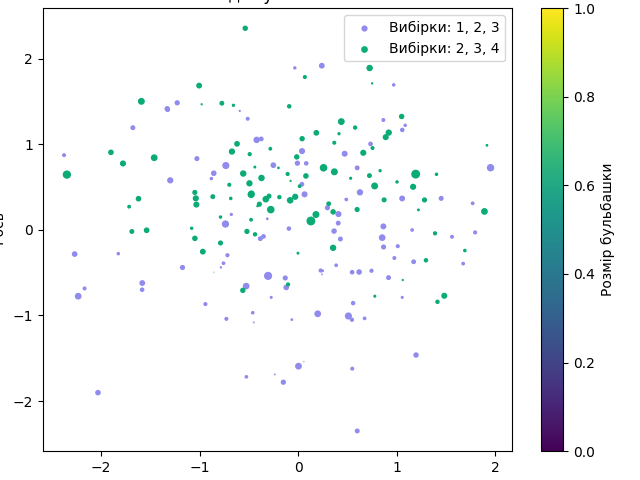
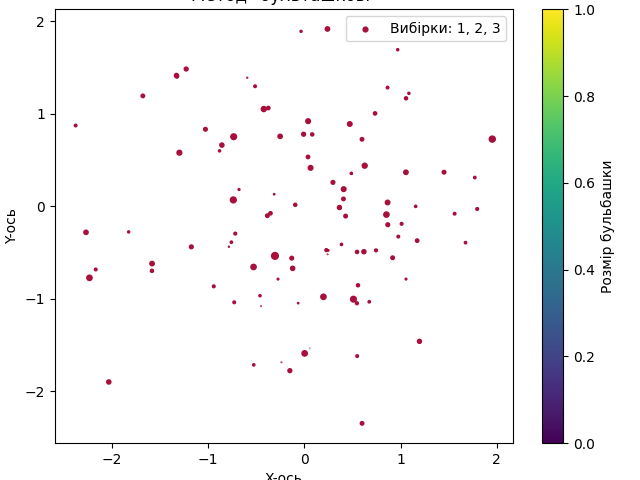
standardization

diff --git a/main.py b/main.py
@@ -5,12 +5,13 @@ import numpy as np
 from tkinter import filedialog as fd
 from PIL import Image, ImageTk
 
-from первинний_аналіз import create_new_window_for_x, calcul_mean_square
+from первинний_аналіз import create_new_window_for_x, calcul_mean_square, standr
 from візуалізація import parallel_coordinat, scatter_plots, bubble_chart
 from кореляція import correlation_matrix, partial, plural
 
 sample_data = {}
 sample_data1 = {}
+sample_data2 = {}
 selected_samples = []
 selected_samples2 = []  # для частові коофіцієнти кореляції
 checkbuttons = []
@@ -38,15 +39,27 @@ def print_selected_options():
         text_widget1.insert(END, "Не обрано жодного варіанту.")
 
 
-def deselect_previous():
-    for sample_name, sample_info in sample_data1.items():
+def deselect_previous(sample_dat):
+    for sample_name, sample_info in sample_dat.items():
         sample_info["var"].set(0)
 
 
 def select_sample(sample_name):
-    deselect_previous()
+    deselect_previous(sample_data1)
     sample_data1[sample_name]["var"].set(1)
     create_new_window_for_x(sample_data1)
+
+
+def select_standart(sample_name):
+    sample_data2[sample_name]["var"].set(1)
+
+    for sample_name, sample_info in sample_data2.items():
+        if sample_info["var"].get() == 1:
+            print(sample_info["data"])
+            standart = standr(sample_info["data"])
+            sample_data2[sample_name] = {'data': standart, "var": tkinter.IntVar()}
+            print(sample_data2[sample_name])
+    # deselect_previous(sample_data2)
 
 
 def open_file():
@@ -64,11 +77,14 @@ def open_file():
     sample_name = f"Вибірка {sample_num}"
     sample_var = tkinter.IntVar()
     sample_var1 = tkinter.IntVar()
+    sample_var2 = tkinter.IntVar()
     sample_data[sample_name] = {"data": array, "var": sample_var}
     sample_data1[sample_name] = {"data": array, "var": sample_var1}
+    sample_data2[sample_name] = {"data": array, "var": sample_var2}
 
     sample_menu1.add_checkbutton(label=sample_name, variable=sample_var)
     sample_menu.add_checkbutton(label=sample_name, variable=sample_var1, command=lambda: select_sample(sample_name))
+    sample_menu2.add_checkbutton(label=sample_name, variable=sample_var2, command=lambda: select_standart(sample_name))
 
 
 class ImageTab(ttk.Frame):
@@ -185,6 +201,21 @@ file_menu2 = Menu(menubar, tearoff=0)
 menubar.add_cascade(label="Первинний аналіз", menu=file_menu2)
 sample_menu = Menu(menubar, tearoff=0)
 file_menu2.add_cascade(label="Вибірки", menu=sample_menu)
+
+file_menu3 = Menu(menubar, tearoff=0)
+menubar.add_cascade(label="Візуалізація", menu=file_menu3)
+# sample_menu2 = Menu(menubar, tearoff=0)
+file_menu3.add_command(label="Бульбашкова", command=lambda: bubble_chart(selected_samples, 1))
+file_menu3.add_command(label="Матриця діаграм розкиду", command=lambda: scatter_plots(selected_samples, 1))
+file_menu3.add_command(label="Паралельні координати", command=lambda: parallel_coordinat(selected_samples, 1))
+
+
+file_menu4 = Menu(menubar, tearoff=0)
+menubar.add_cascade(label="Стандартизація", menu=file_menu4)
+file_menu4.add_separator()
+sample_menu2 = Menu(menubar, tearoff=0)
+file_menu4.add_cascade(label="Вибірки", menu=sample_menu2)
+
 
 window.config(menu=menubar)
 

diff --git a/візуалізація.py b/візуалізація.py
@@ -5,10 +5,10 @@ import pandas as pd
 import seaborn as sns
 
 
-def parallel_coordinat(data):
+def parallel_coordinat(data, show=None):
     plt.clf()
 
-    df = pd.DataFrame(columns=[f'Feature{i+1}' for i in range(len(data))] + ['Category'])
+    df1 = pd.DataFrame(columns=[f'Feature{i+1}' for i in range(len(data))] + ['Category'])
 
     transposed_data = list(zip(*[sample[1] for sample in data]))
     formatted_samples = [(f"вібірка{i+1}", list(transposed_data[i])) for i in range(len(transposed_data))]
@@ -16,18 +16,24 @@ def parallel_coordinat(data):
     for sample_name, sample_data in formatted_samples:
         temp_df = pd.DataFrame(np.array(sample_data).reshape(1, -1), columns=[f'Feature{i+1}' for i in range(len(sample_data))])
         temp_df['Category'] = sample_name
-        df = pd.concat([df, temp_df], ignore_index=True)
+        df1 = pd.concat([df1, temp_df], ignore_index=True)
 
-    parallel_coordinates(df, 'Category', colormap='viridis', alpha=0.5)
+    parallel_coordinates(df1, 'Category', colormap='viridis', alpha=0.5)
     plt.legend([])
     plt.savefig("parallel_coordinates.png")
+
+    if show == 1:
+        plt.show()
+        return
 
     return "parallel_coordinates.png"
 
 
-def scatter_plots(data):
+def scatter_plots(data, show=None):
     plt.clf()
-    df = pd.DataFrame(columns=[f'Feature{i+1}' for i in range(len(data))] + ['Category'])
+    fig, ax = plt.subplots(figsize=(12, 8))
+
+    df2 = pd.DataFrame(columns=[f'Feature{i+1}' for i in range(len(data))] + ['Category'])
 
     transposed_data = list(zip(*[sample[1] for sample in data]))
     formatted_samples = [(f"вібірка{i+1}", list(transposed_data[i])) for i in range(len(transposed_data))]
@@ -35,17 +41,21 @@ def scatter_plots(data):
     for sample_name, sample_data in formatted_samples:
         temp_df = pd.DataFrame(np.array(sample_data).reshape(1, -1), columns=[f'Feature{i+1}' for i in range(len(sample_data))])
         temp_df['Category'] = sample_name
-        df = pd.concat([df, temp_df], ignore_index=True)
+        df2 = pd.concat([df2, temp_df], ignore_index=True)
 
-    g = sns.pairplot(df)
+    g = sns.pairplot(df2)
     g.fig.set_size_inches(6.4, 4.8)
     plt.legend([])
     plt.savefig("scatter_plots.png")
 
+    if show == 1:
+        plt.show()
+        return
+
     return "scatter_plots.png"
 
 
-def bubble_chart(data):
+def bubble_chart(data, show=None):
     plt.clf()
 
     labels = []
@@ -67,5 +77,9 @@ def bubble_chart(data):
     plt.colorbar(label='Розмір бульбашки')
     plt.legend(labels, loc='best')
     plt.savefig("bubble_chart.png")
+
+    if show == 1:
+        plt.show()
+        return
 
     return "bubble_chart.png"
